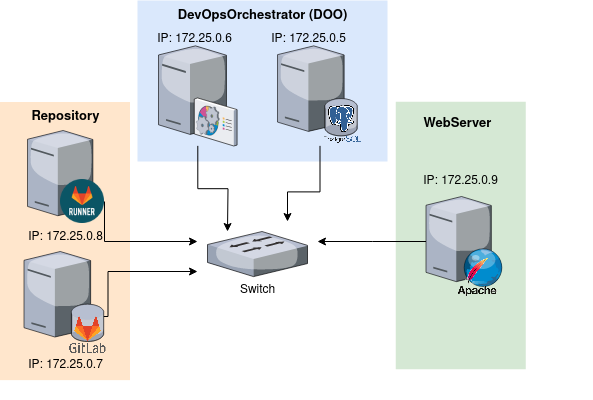
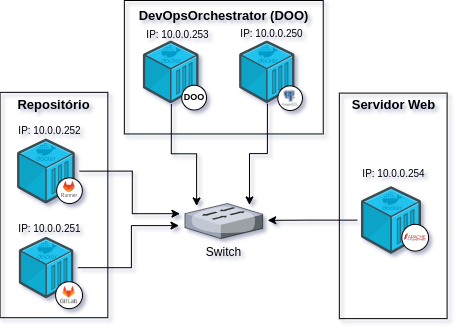
imagem e atualizações

diff --git a/docs/containernet/webserver/README.md b/docs/containernet/webserver/README.md
@@ -2,16 +2,10 @@
 
 ## Requisitos
 *  Ubuntu 22.04.4
-*  Ansible 2.15.9
 *  Python 3.11
 *  Containernet 2.3.1b1
 
 ## Instalação dos requisitos
-
-Instalando o Ansible:
-```shell
-sudo apt-get install ansible
-```
 
 Instalando o Python:
 
@@ -22,13 +16,11 @@ sudo apt install python3.11
 Instalando o containernet
 
 ```shell
-git clone https://github.com/containernet/containernet.git
+$ git clone https://github.com/ramonfontes/containernet.git
+$ cd containernet
+$ sudo util/install.sh -W
 ```
-e depois:
 
-```shell
-sudo ansible-playbook -i "localhost," -c local containernet/ansible/install.yml
-```
 ## Iniciando simulação no ContainerNet
 
 Para reproduzir o ambiente basta executar o seguinte comando nessa pasta:
